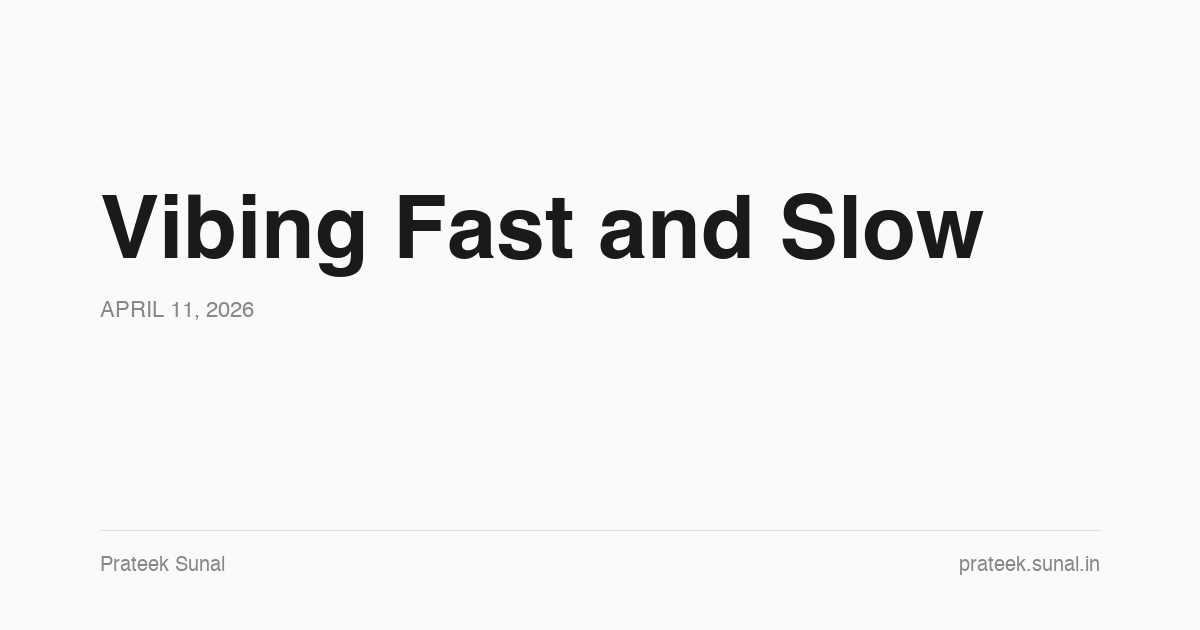
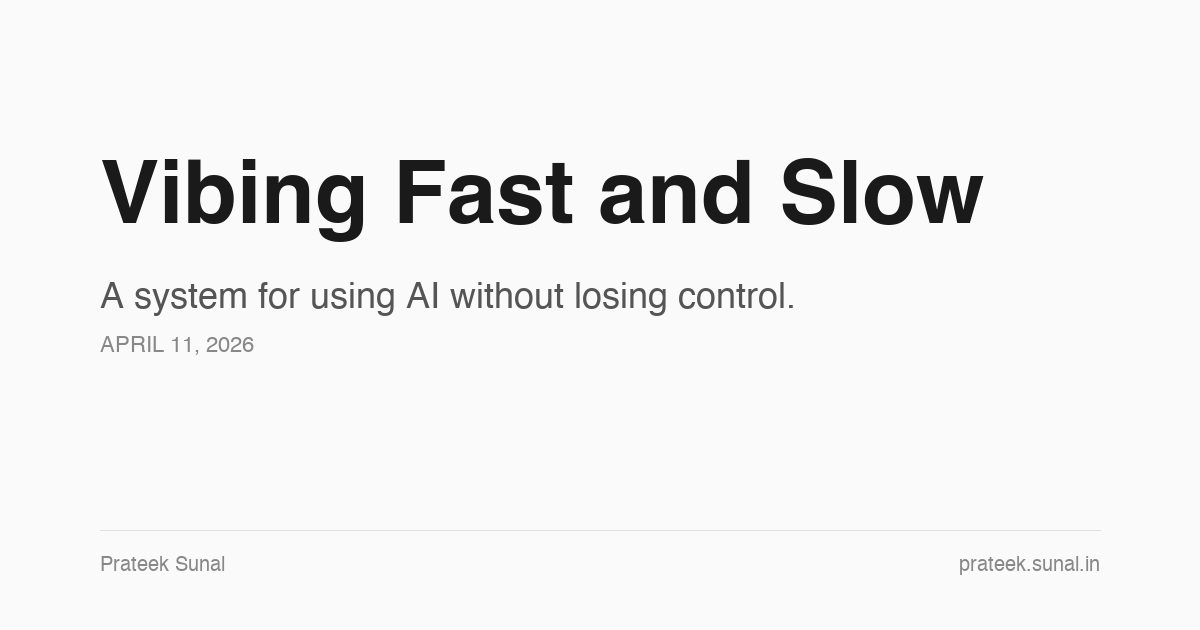
update og details

Changed region(s): [[0.0617, 0.2413, 0.8325, 0.573]]

diff --git a/blog/vibing-fast-and-slow/index.html b/blog/vibing-fast-and-slow/index.html
@@ -4,11 +4,14 @@
   <meta charset="UTF-8">
   <meta name="viewport" content="width=device-width, initial-scale=1.0">
   <title>Vibing Fast and Slow - Prateek Sunal</title>
-  <meta property="og:title" content="Vibing Fast and Slow">
+  <meta property="og:title" content="Vibing Fast and Slow - A System for Using AI Without Losing Control">
+  <meta property="og:description" content="A two-phase system for using AI coding agents — the Fast vibe for discovery, the Slow vibe for engineering. Because speed is not judgment.">
   <meta property="og:type" content="article">
   <meta property="og:image" content="https://prateek.sunal.in/blog/vibing-fast-and-slow/og.png">
   <meta property="og:url" content="https://prateek.sunal.in/blog/vibing-fast-and-slow">
   <meta name="twitter:card" content="summary_large_image">
+  <meta name="twitter:title" content="Vibing Fast and Slow - A System for Using AI Without Losing Control">
+  <meta name="twitter:description" content="A two-phase system for using AI coding agents — the Fast vibe for discovery, the Slow vibe for engineering. Because speed is not judgment.">
   <meta name="twitter:image" content="https://prateek.sunal.in/blog/vibing-fast-and-slow/og.png">
   <link rel="stylesheet" href="../../style.css">
   <link rel="icon" type="image/png" href="../../favicon.png">
